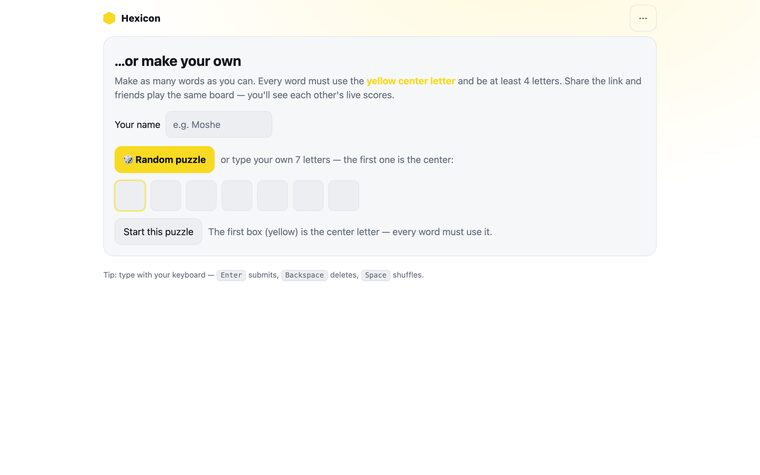
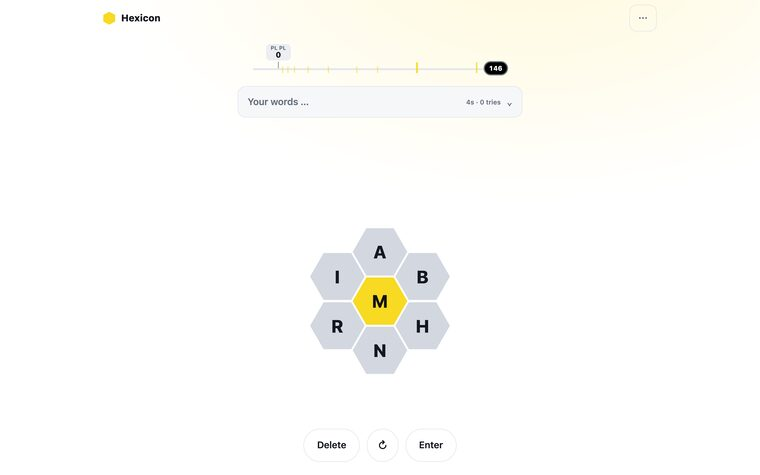
Refine catalog: remove 3 apps, rename Boggle→Scramble, Wordbox as iOS app
- Remove Song Maker, Kitchen Scale, 360 Spin
- Rename Boggle card to Scramble; both word games now show live mid-game boards
- Move Wordbox into iOS apps (TestFlight)
- Mac utilities link to their GitHub repos; contact email → general@dancykier.com
- Angry Men copy clarifies voting is by private link only

diff --git a/index.html b/index.html
@@ -113,7 +113,7 @@
 
   <footer>
     <span>Built by Moshe Dancykier</span>
-    <span><a href="mailto:hello@dancykier.com">hello@dancykier.com</a></span>
+    <span><a href="mailto:general@dancykier.com">general@dancykier.com</a></span>
   </footer>
 </div>
 
@@ -129,27 +129,24 @@ const SECTIONS = [
     { n:"GroupSnap",     d:"One shared camera roll for everyone at your event.",                   u:"https://groupsnap.dancykier.com", b:"live", ic:"groupsnap", t:["#3a2c96","#7a2f6a"] },
     { n:"Media Check",   d:"Is this movie, show or book OK for my kid? Five severity scores + an age.", b:"beta", ic:"mediacheck", t:["#1a2a3f","#0e4a52"] },
     { n:"Pollen",        d:"Daily pollen forecast with a morning push.",                           b:"beta", ic:"pollen", t:["#1e5a34","#7bbf3a"] },
-    { n:"Song Maker",    d:"Turn a prompt into a full song.",                                       b:"beta", ic:"songmaker", t:["#2c2c96","#7a3fb5"] },
-    { n:"Kitchen Scale", d:"BLE kitchen scale → nutrition logging in HealthKit & Fitbit.",         b:"beta", ic:"kitchenscale", t:["#0e4a52","#2aa6a0"] },
+    { n:"Wordbox",       d:"Word games you play with friends, at your own pace.",                  b:"beta", ic:"wordbox", t:["#8a5a12","#e0a72b"] },
   ]},
   { title:"Web & games", apps:[
     { n:"Pinpoint",             d:"Read a clue, drop a pin — unlimited geography practice.", u:"https://geo.dancykier.com", b:"live", ic:"pinpoint", s:"pinpoint" },
     { n:"Chobes Roto Inspector",d:"Live monthly roto standings for a fantasy league.",       u:"https://chobes.dancykier.com", b:"live", ic:"chobes", s:"chobes" },
     { n:"Games",                d:"A hub of quick browser games.",                           u:"https://games.dancykier.com", b:"live", ic:"games", s:"games" },
     { n:"Hexicon",              d:"Spelling-bee style word hunt from a honeycomb.",          u:"https://spellingbee.dancykier.com", b:"live", ic:"hexicon", s:"hexicon" },
-    { n:"Boggle",               d:"Find every word in the shaken grid.",                     u:"https://boggle.dancykier.com", b:"live", ic:"boggle", s:"boggle" },
+    { n:"Scramble",             d:"Find every word in the shaken grid.",                     u:"https://boggle.dancykier.com", b:"live", ic:"boggle", s:"scramble" },
     { n:"Anagrams",             d:"Unscramble against the clock.",                           u:"https://anagrams.dancykier.com", b:"live", ic:"anagrams", s:"anagrams" },
-    { n:"Wordbox",              d:"Word games you play with friends, at your own pace.",     u:"https://wordbox.dancykier.com", b:"live", ic:"wordbox", t:["#8a5a12","#e0a72b"] },
-    { n:"Angry Men Rankings",   d:"The Angry Men humor-ranking ballot.",                     u:"https://amhumor.dancykier.com", b:"live", ic:"angrymen", s:"angrymen" },
-    { n:"360 Spin",             d:"Interactive 360° product spin viewer.",                   u:"https://360.dancykier.com", b:"live", ic:"spin360", s:"spin360" },
+    { n:"Angry Men Rankings",   d:"Live humor standings for the Angry Men. Voting is by private link only.", u:"https://amhumor.dancykier.com", b:"live", ic:"angrymen", s:"angrymen" },
   ]},
   { title:"Mac apps", apps:[
     { n:"Beam",              d:"A Spotlight-style search bar that also computes.",                        u:"https://beam.dancykier.com", b:"mac", ic:"beam", s:"beam", cta:"Download" },
-    { n:"TextLift",          d:"Global shortcut → drag a region → the text is on your clipboard.",        b:"mac", ic:"textlift", t:["#173a5b","#3b7fb0"] },
-    { n:"Clipboard History", d:"A fast, searchable panel of everything you've copied.",                   b:"mac", ic:"clipboard", t:["#2a3340","#586c85"] },
-    { n:"ClaudeBar",         d:"Menu-bar notifications for Claude Code; a click focuses the right terminal.", b:"mac", ic:"claudebar", t:["#7a3a1e","#e07b3a"] },
-    { n:"RunApp",            d:"One-tap launcher for my iOS apps with a live unified log viewer.",         b:"mac", ic:"runapp", t:["#1e5a34","#3aa96a"] },
-    { n:"ClipPiP",           d:"Float your clipboard in an always-on-top picture-in-picture panel.",      b:"mac", ic:"clippip", t:["#2c2f7a","#5a5ed6"] },
+    { n:"TextLift",          d:"Global shortcut → drag a region → the text is on your clipboard.",        u:"https://github.com/moshed/TextLift", b:"mac", ic:"textlift", t:["#173a5b","#3b7fb0"], cta:"GitHub" },
+    { n:"Clipboard History", d:"A fast, searchable panel of everything you've copied.",                   u:"https://github.com/moshed/Clipboard-Manager", b:"mac", ic:"clipboard", t:["#2a3340","#586c85"], cta:"GitHub" },
+    { n:"ClaudeBar",         d:"Menu-bar notifications for Claude Code; a click focuses the right terminal.", u:"https://github.com/moshed/ClaudeBar", b:"mac", ic:"claudebar", t:["#7a3a1e","#e07b3a"], cta:"GitHub" },
+    { n:"RunApp",            d:"One-tap launcher for my iOS apps with a live unified log viewer.",         u:"https://github.com/moshed/run-app", b:"mac", ic:"runapp", t:["#1e5a34","#3aa96a"], cta:"GitHub" },
+    { n:"ClipPiP",           d:"Float your clipboard in an always-on-top picture-in-picture panel.",      u:"https://github.com/moshed/ClipPiP", b:"mac", ic:"clippip", t:["#2c2f7a","#5a5ed6"], cta:"GitHub" },
   ]},
 ];
 
@@ -171,11 +168,11 @@ SECTIONS.forEach(sec=>{
     if(linked){ el.href=a.u; el.target='_blank'; el.rel='noopener'; }
     el.dataset.k = (a.n+' '+a.d).toLowerCase();
     const thumb = a.s
-      ? `<div class="thumb"><span class="plat">${plat}</span><img class="shot" loading="lazy" src="thumbs/${a.s}.jpg?v=2" alt="${a.n} screenshot"></div>`
-      : `<div class="thumb tile" style="background:linear-gradient(150deg, ${a.t?a.t[0]:'#1e2a3b'}, ${a.t?a.t[1]:'#141c29'})"><span class="plat">${plat}</span><img class="bigic" loading="lazy" src="icons/${a.ic}.png?v=2" alt="${a.n} icon"></div>`;
+      ? `<div class="thumb"><span class="plat">${plat}</span><img class="shot" loading="lazy" src="thumbs/${a.s}.jpg?v=3" alt="${a.n} screenshot"></div>`
+      : `<div class="thumb tile" style="background:linear-gradient(150deg, ${a.t?a.t[0]:'#1e2a3b'}, ${a.t?a.t[1]:'#141c29'})"><span class="plat">${plat}</span><img class="bigic" loading="lazy" src="icons/${a.ic}.png?v=3" alt="${a.n} icon"></div>`;
     el.innerHTML = thumb +
       `<div class="meta">`+
-        `<img class="ic" loading="lazy" src="icons/${a.ic}.png?v=2" alt="">`+
+        `<img class="ic" loading="lazy" src="icons/${a.ic}.png?v=3" alt="">`+
         `<div class="txt">`+
           `<div class="name">${a.n}</div>`+
           `<p class="desc">${a.d}</p>`+
